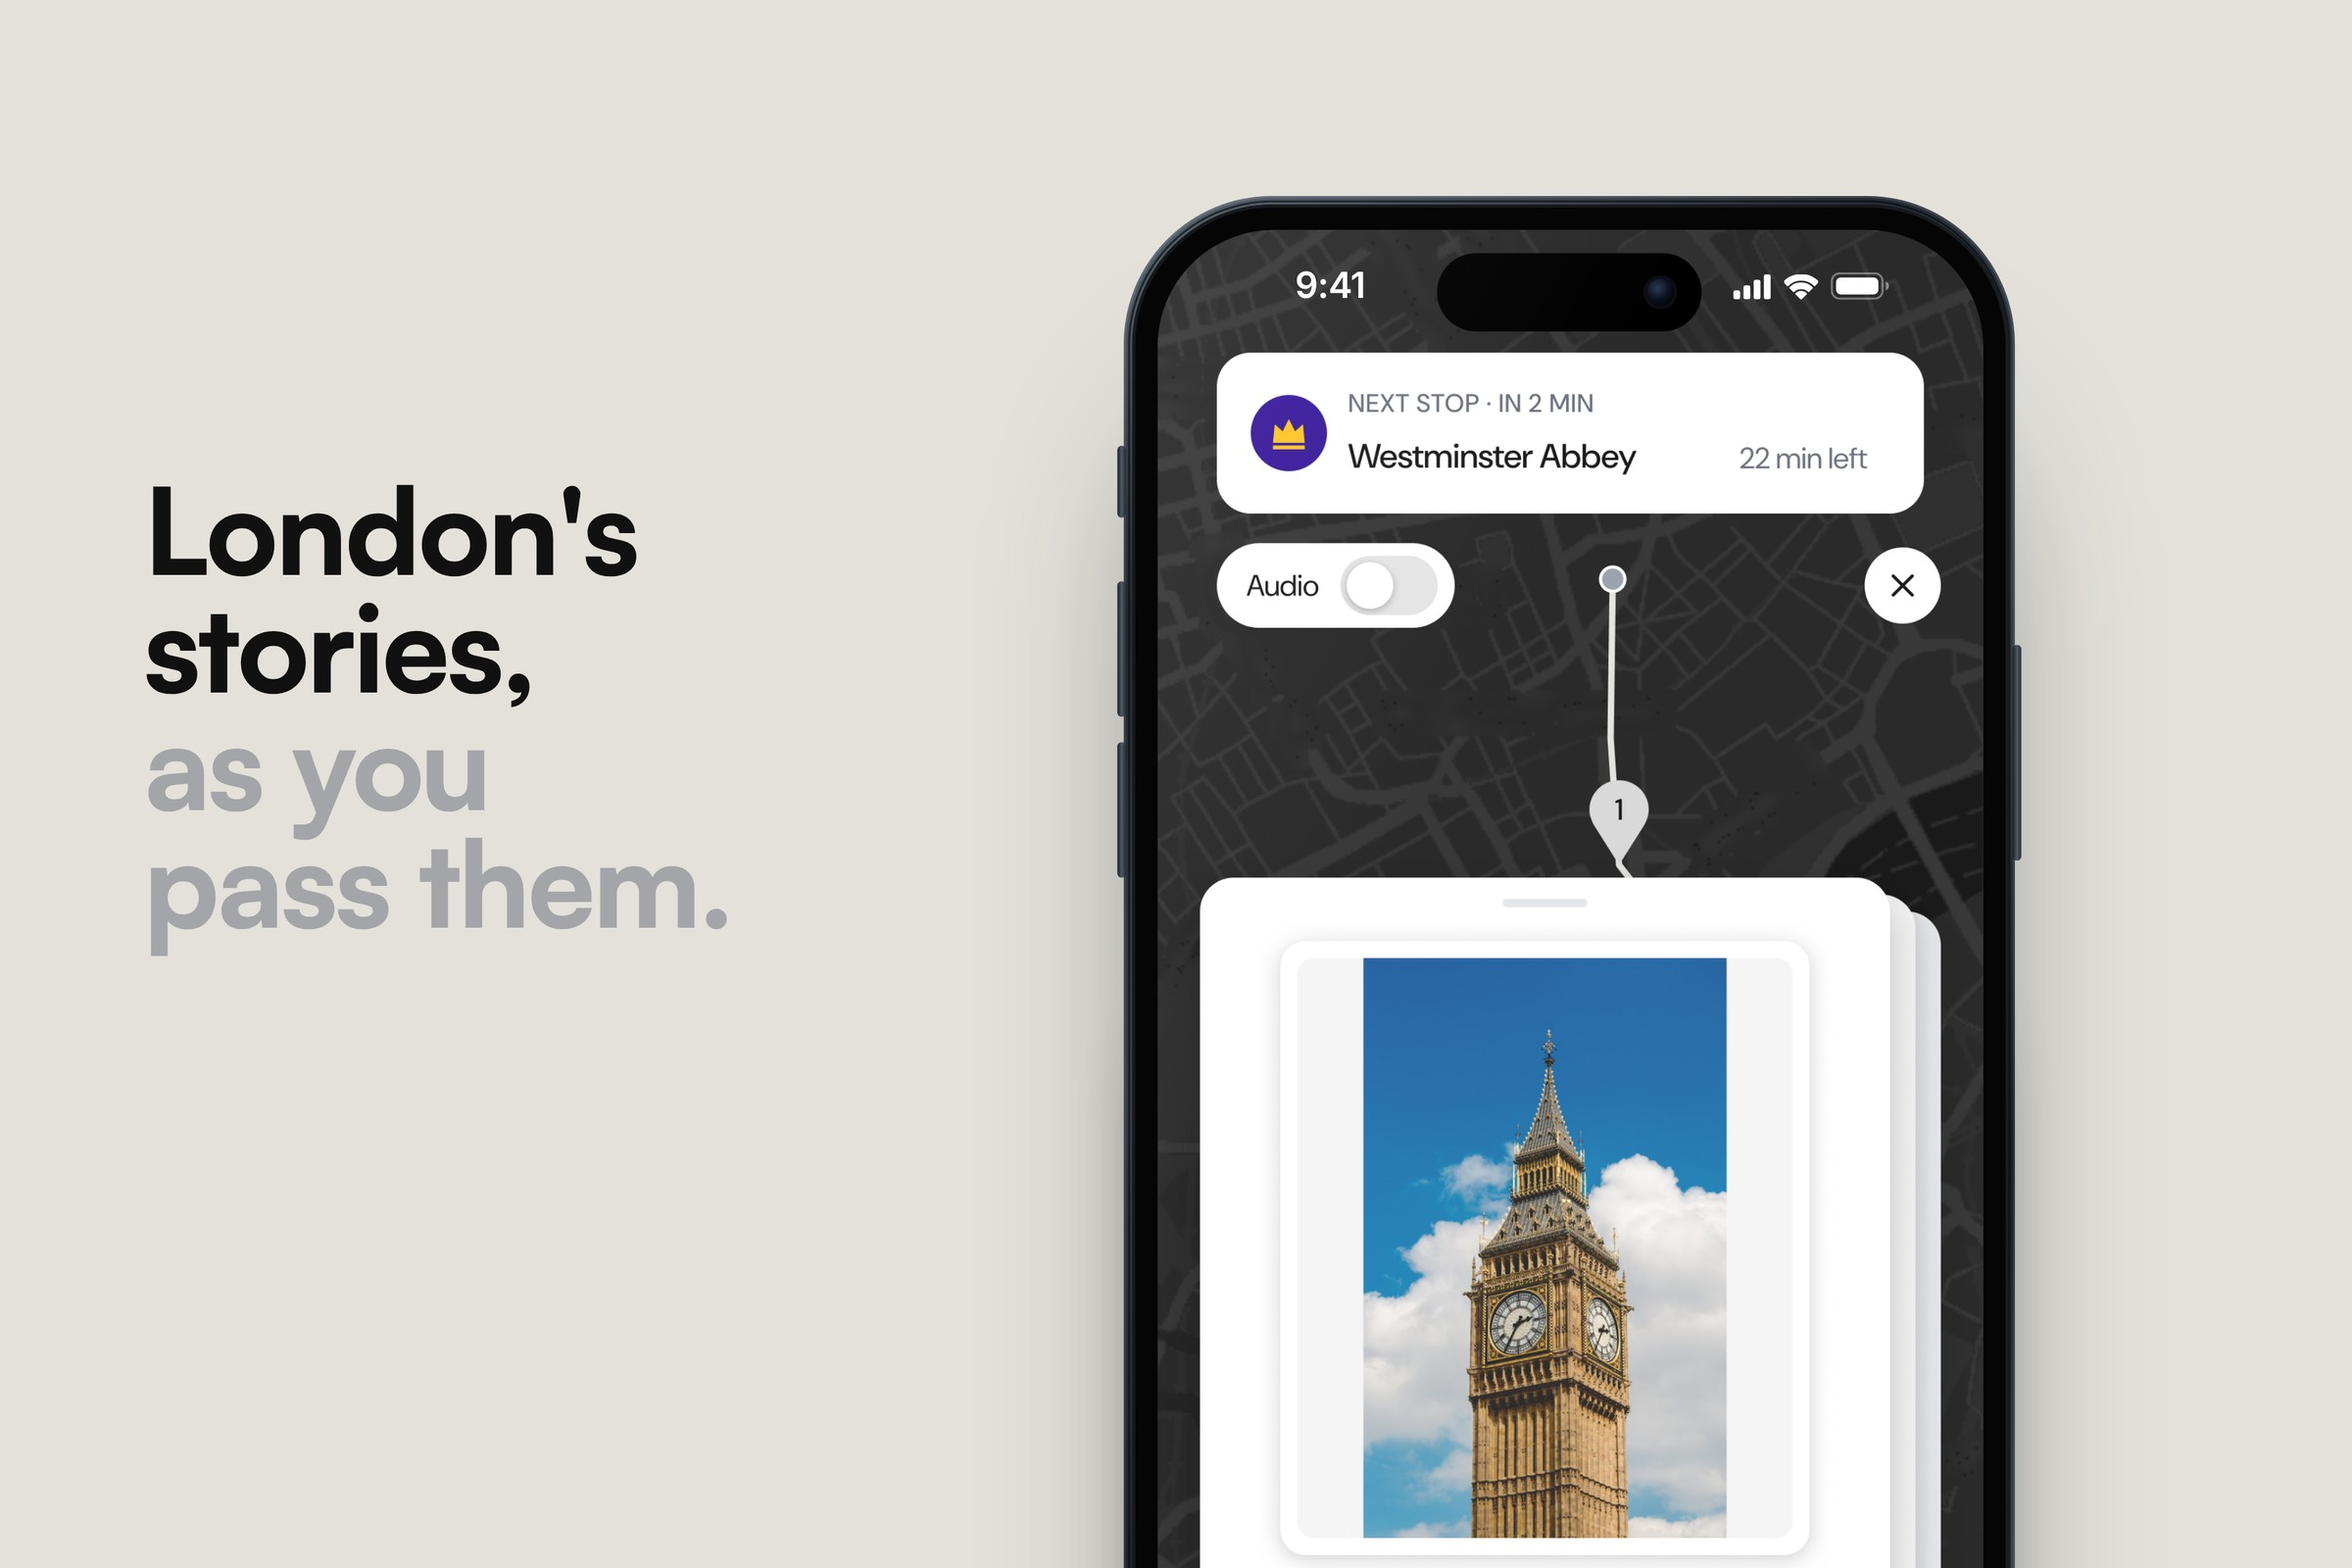
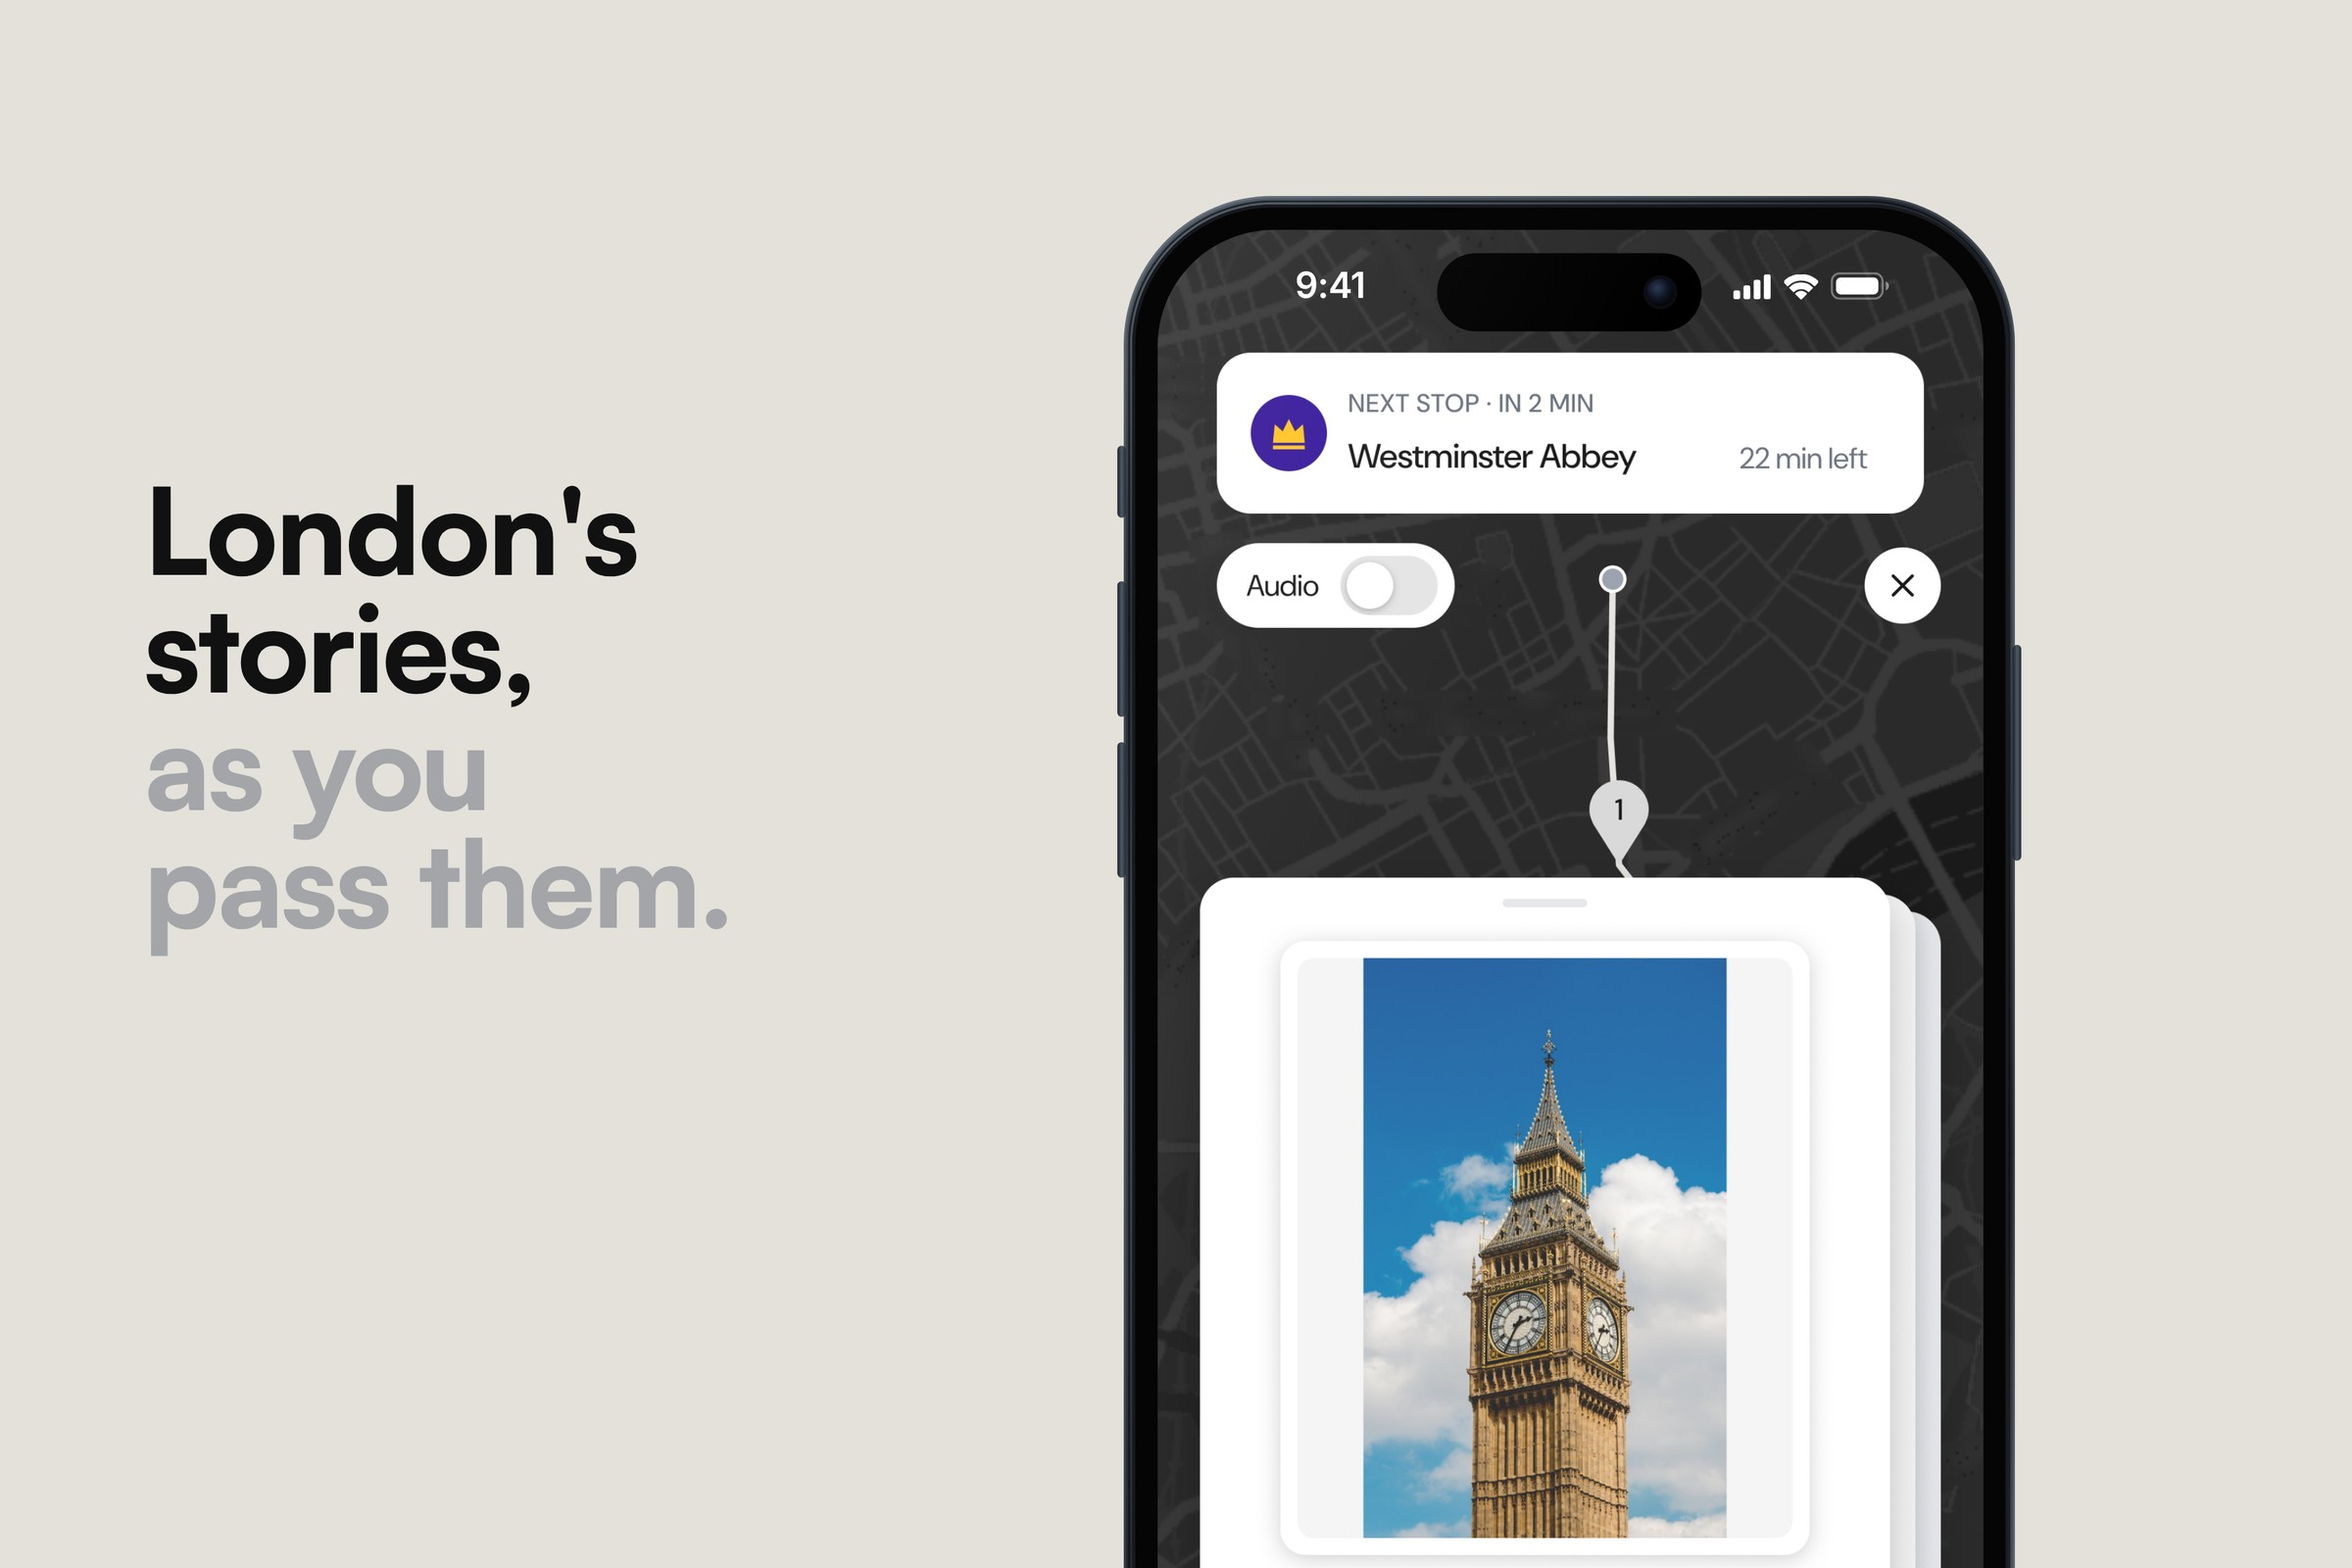
Mockups: remove phone shadows, add two advert-style layouts
advert.jpg puts product copy around the three-phone hero (headline left,
feature notes right). advert-single.jpg follows the same layout around one
large phone. Every phone mockup is re-rendered without the drop shadow.
Also fixes the numbering of the Figma sync rules in the agent notes.

Claude-Session: https://claude.ai/code/session_01PjGD56cr8Psn7ggGxxxvdH

Changed region(s): [[0.8438, 0.3438, 0.875, 1.0], [0.4688, 0.3438, 0.5, 1.0]]

diff --git a/AGENTS.md b/AGENTS.md
@@ -105,10 +105,12 @@ Rules:
    `scripts/mockups/render.mjs` from 3x exports of the source frames with the
    status bar and home indicator removed (`scripts/mockups/screens/`); the
    script draws the device, status bar and island. Re-export those screens and
-   re-render when a final frame changes.
-4. Exports are rebuilt from the source frames above. Never edit the copies in
+   re-render when a final frame changes. Phones have no drop shadow (the
+   user's choice). `advert` and `advert-single` add product copy around the
+   phones; keep that copy factual and in line with the README.
+5. Exports are rebuilt from the source frames above. Never edit the copies in
    "07 · Clean screens" or the slide images by hand.
-5. Round 1 and round 2 boards are a historical record. Leave them unchanged.
+6. Round 1 and round 2 boards are a historical record. Leave them unchanged.
 
 - The root `README.md` is the project's portfolio page. It describes v2 and
   links to the v1 README on the `v1-archive` branch. v1 screenshots stay in

diff --git a/CLAUDE.md b/CLAUDE.md
@@ -105,10 +105,12 @@ Rules:
    `scripts/mockups/render.mjs` from 3x exports of the source frames with the
    status bar and home indicator removed (`scripts/mockups/screens/`); the
    script draws the device, status bar and island. Re-export those screens and
-   re-render when a final frame changes.
-4. Exports are rebuilt from the source frames above. Never edit the copies in
+   re-render when a final frame changes. Phones have no drop shadow (the
+   user's choice). `advert` and `advert-single` add product copy around the
+   phones; keep that copy factual and in line with the README.
+5. Exports are rebuilt from the source frames above. Never edit the copies in
    "07 · Clean screens" or the slide images by hand.
-5. Round 1 and round 2 boards are a historical record. Leave them unchanged.
+6. Round 1 and round 2 boards are a historical record. Leave them unchanged.
 
 - The root `README.md` is the project's portfolio page. It describes v2 and
   links to the v1 README on the `v1-archive` branch. v1 screenshots stay in
